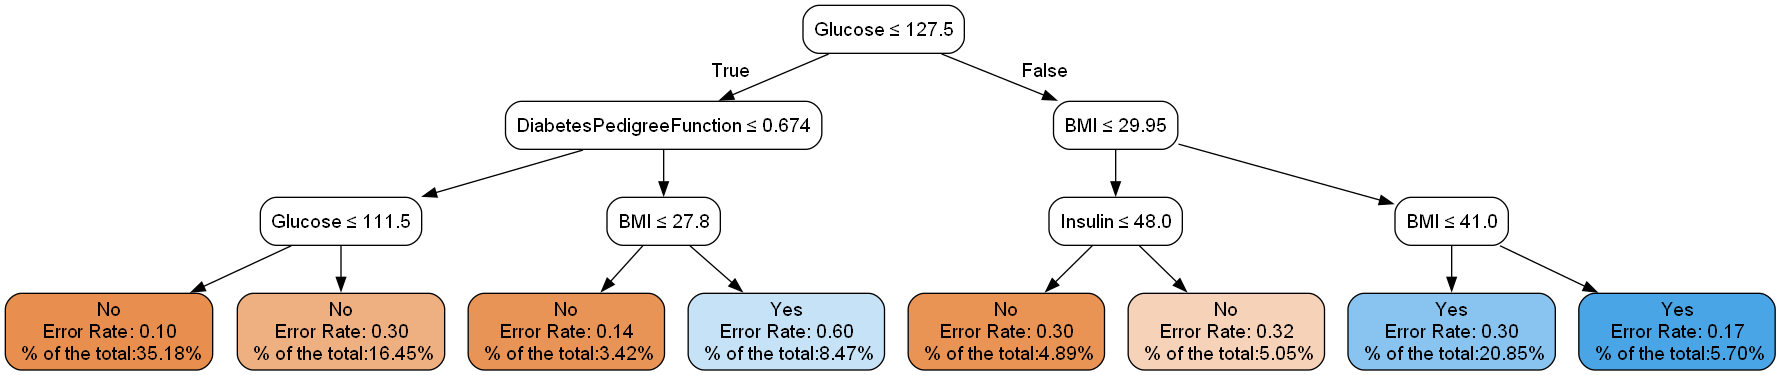
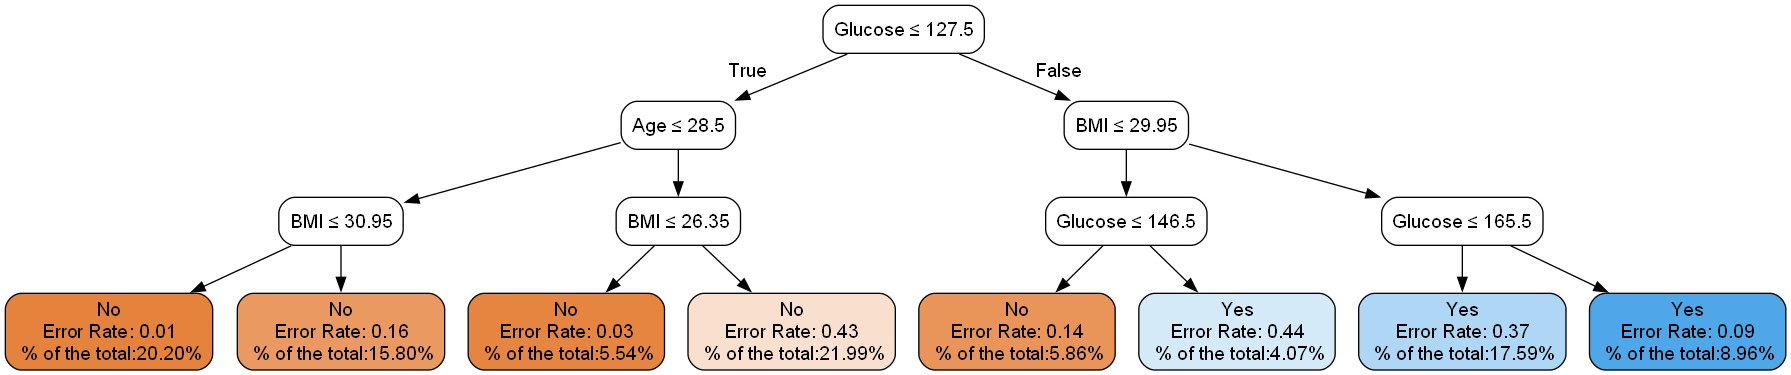
Improving test_tree_visualization using unittest

diff --git a/source/test_tree_visualization.py b/source/test_tree_visualization.py
@@ -1,38 +1,46 @@
+import unittest
 import os
-
-print(os.getcwd())
-from TreeModel import TreeModel  # Import your TreeModel class
-from tree_visualizer import draw_path  # Import the draw_path function
+from TreeModel import TreeModel
+from tree_visualizer import draw_path
 from sklearn.model_selection import train_test_split
 import pandas as pd
 
-# Load and prepare your dataset
-file_path = os.path.join("..", "data", "diabetes.csv")
-df = pd.read_csv(file_path)
-target_column = 'Outcome'
-X = df.drop(target_column, axis=1)
-features = list(X.columns)
-y = df[target_column]
 
-# Split the dataset into training and test sets
-X_train, X_test, y_train, y_test = train_test_split(X, y, test_size=0.2, random_state=42)
+class TestTreeVisualizer(unittest.TestCase):
 
-# Create and train the TreeModel instance
-tree_model = TreeModel(
-    model_type='random_forest',  # or another model type
-    model_params={'max_depth': 4},
-    X_train=X_train,
-    y_train=y_train,
-    class_names=['No', 'Yes']
-)
-# tree_model.train()  # Train the model (assuming a train method exists)
+    def setUp(self):
+        file_path = os.path.join("..", "data", "diabetes.csv")
+        df = pd.read_csv(file_path)
+        target_column = 'Outcome'
+        X = df.drop(target_column, axis=1)
+        self.features = list(X.columns)
+        y = df[target_column]
 
-# Select a data point for visualization (e.g., the first data point from the test set)
-data_point = X_test.iloc[0]
+        # Split the dataset into training and test sets
+        X_train, X_test, y_train, y_test = train_test_split(X, y, test_size=0.2, random_state=42)
 
-# Call draw_path with the trained model and the data point
-graph = draw_path(tree_model, data_point, model_type='random_forest', features=features)
-# graph.render(os.path.join('..', 'graphical_output', 'test_tree_visualization'), view=True, format='png', engine='dot', dpi=300)
-# Render and view the graph
-graph.render(os.path.join('..', 'graphical_output', 'test_tree_visualization'), view=True,
-             format='png')  # Specify your output path
+        # Create and train the TreeModel instance
+        self.tree_model = TreeModel(
+            model_type='random_forest',
+            model_params={'max_depth': 4},
+            X_train=X_train,
+            y_train=y_train,
+            class_names=['No', 'Yes']
+        )
+        # self.tree_model.train()  # Train the model (if a train method exists)
+
+        # Select a data point for visualization
+        self.data_point = X_test.iloc[0]
+
+    def test_draw_path(self):
+        # Call draw_path with the trained model and the data point
+        graph = draw_path(self.tree_model, self.data_point, model_type='random_forest', features=self.features)
+        output_file = os.path.join('..', 'graphical_output', 'test_tree_visualization')
+        graph.render(output_file, view=True, format='png')  # Specify your output path
+
+        # Assertions or additional checks can be added here
+        self.assertTrue(os.path.exists(output_file + '.png'), "Graph image file was not created.")
+
+
+if __name__ == '__main__':
+    unittest.main()

diff --git a/source/test_TreeModel.py b/source/test_TreeModel.py
@@ -26,7 +26,7 @@ class TestTreeModel(unittest.TestCase):
 
     def test_random_forest_model_diabetes(self):
         tree_model = TreeModel(
-            model_type='random_forest',
+            model_type='decision_tree',
             model_params={'max_depth': 3},
             X_train=self.X_train_diabetes,
             y_train=self.y_train_diabetes,
